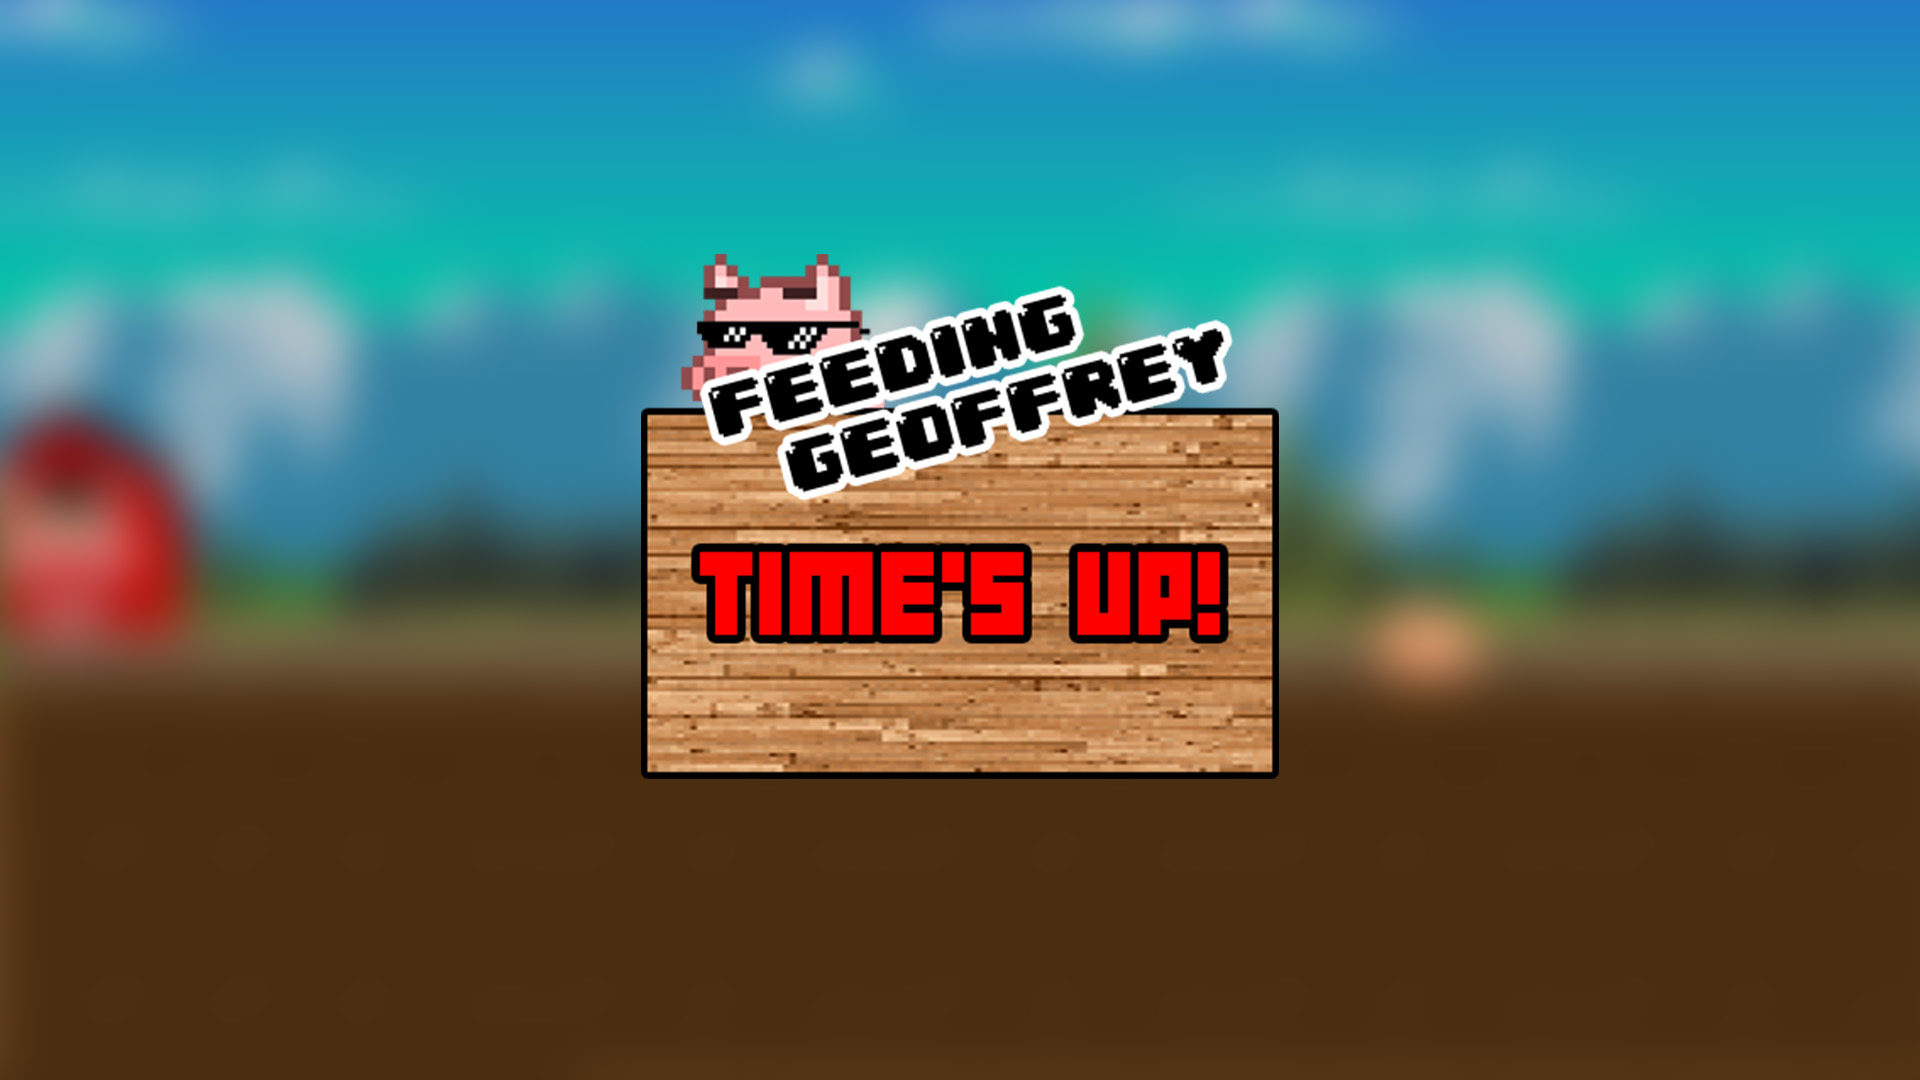
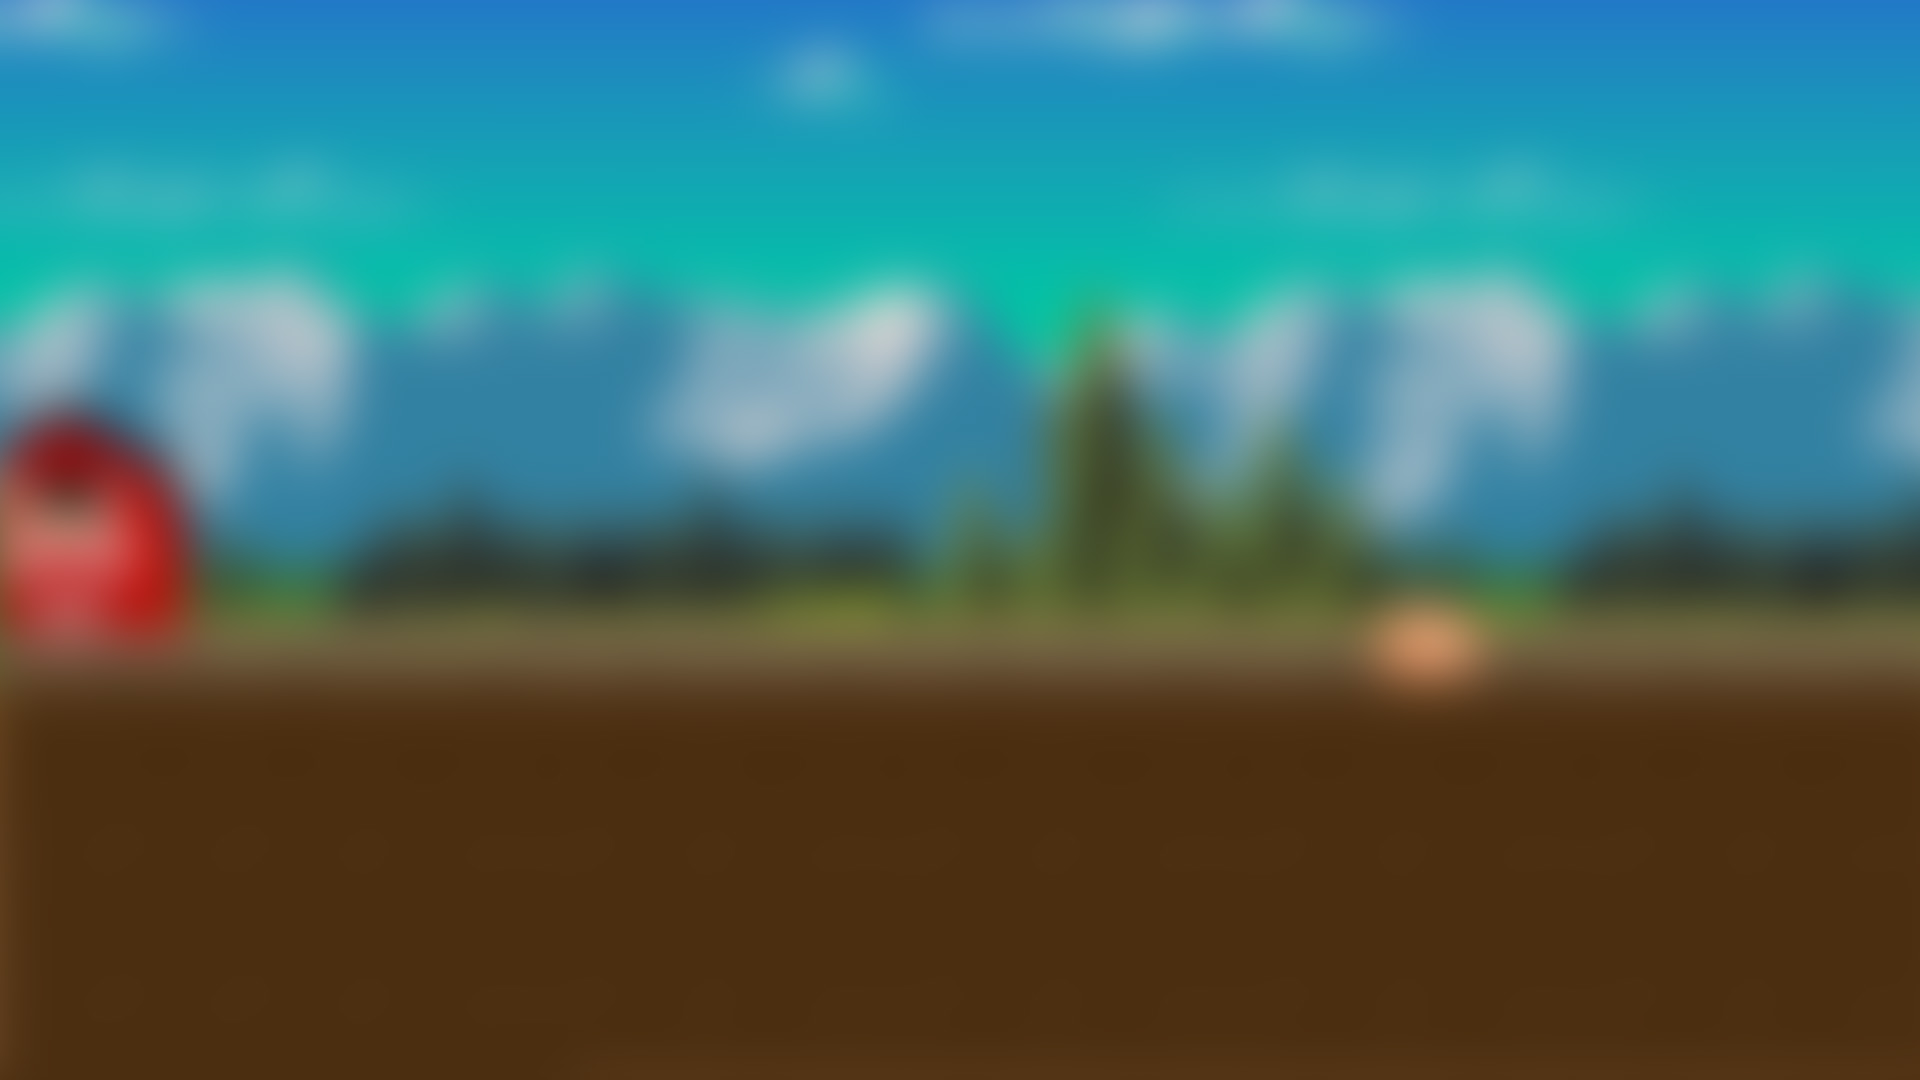
split timesup bg and img for mobile responsiveness. implemented functional coding in js

Changed region(s): [[0.3125, 0.2444, 0.6875, 0.7333]]

diff --git a/Scripts/Gameplay-Script.js b/Scripts/Gameplay-Script.js
@@ -12,8 +12,7 @@ document.querySelector('#pauseBtn').addEventListener('click', function()
 {
     document.querySelector('.main-gameplay').style.cssText = `display: none;`
     
-    document.querySelector('.pause-screen').style.cssText = `display: block
-    `
+    document.querySelector('.pause-screen').style.cssText = `display: block`
 
     pauseBG()
 })
@@ -24,6 +23,8 @@ function timesUpScreen(){
     screenChange(timesupscreen)
 
     document.querySelector('.main-gameplay').style.cssText = `display: none;`
+
+    document.querySelector('.timesup-screen').style.cssText = `display: block`
 
 }
 

diff --git a/HTML/Gameplay.html b/HTML/Gameplay.html
@@ -104,9 +104,11 @@
 
     <div class="timesup-screen">
 
+            <img src="../Images/Gameplay/timesup-logo.png" alt="" id="timesupimg" class="mx-auto d-block img-fluid">
+        
     </div>
 
-    
+
     <!-- SCRIPTS -->
     <script src="https://cdn.jsdelivr.net/npm/bootstrap@5.0.0-beta1/dist/js/bootstrap.bundle.min.js"
         integrity="sha384-ygbV9kiqUc6oa4msXn9868pTtWMgiQaeYH7/t7LECLbyPA2x65Kgf80OJFdroafW"

diff --git a/CSS/Gameplay-css/Mobile-resp.css b/CSS/Gameplay-css/Mobile-resp.css
@@ -52,6 +52,19 @@ body{
 
 /* PAUSE CSS END*/
 
+/* timesup-screen */
+.timesup-screen{
+     display: none;
+     padding: 30px;
+}
+
+#timesupimg{
+    margin-top: 20vh;
+}
+
+
+/* timesup-screen END*/
+
 /* Display swap */
 .main-gameplay{
     display: block;
